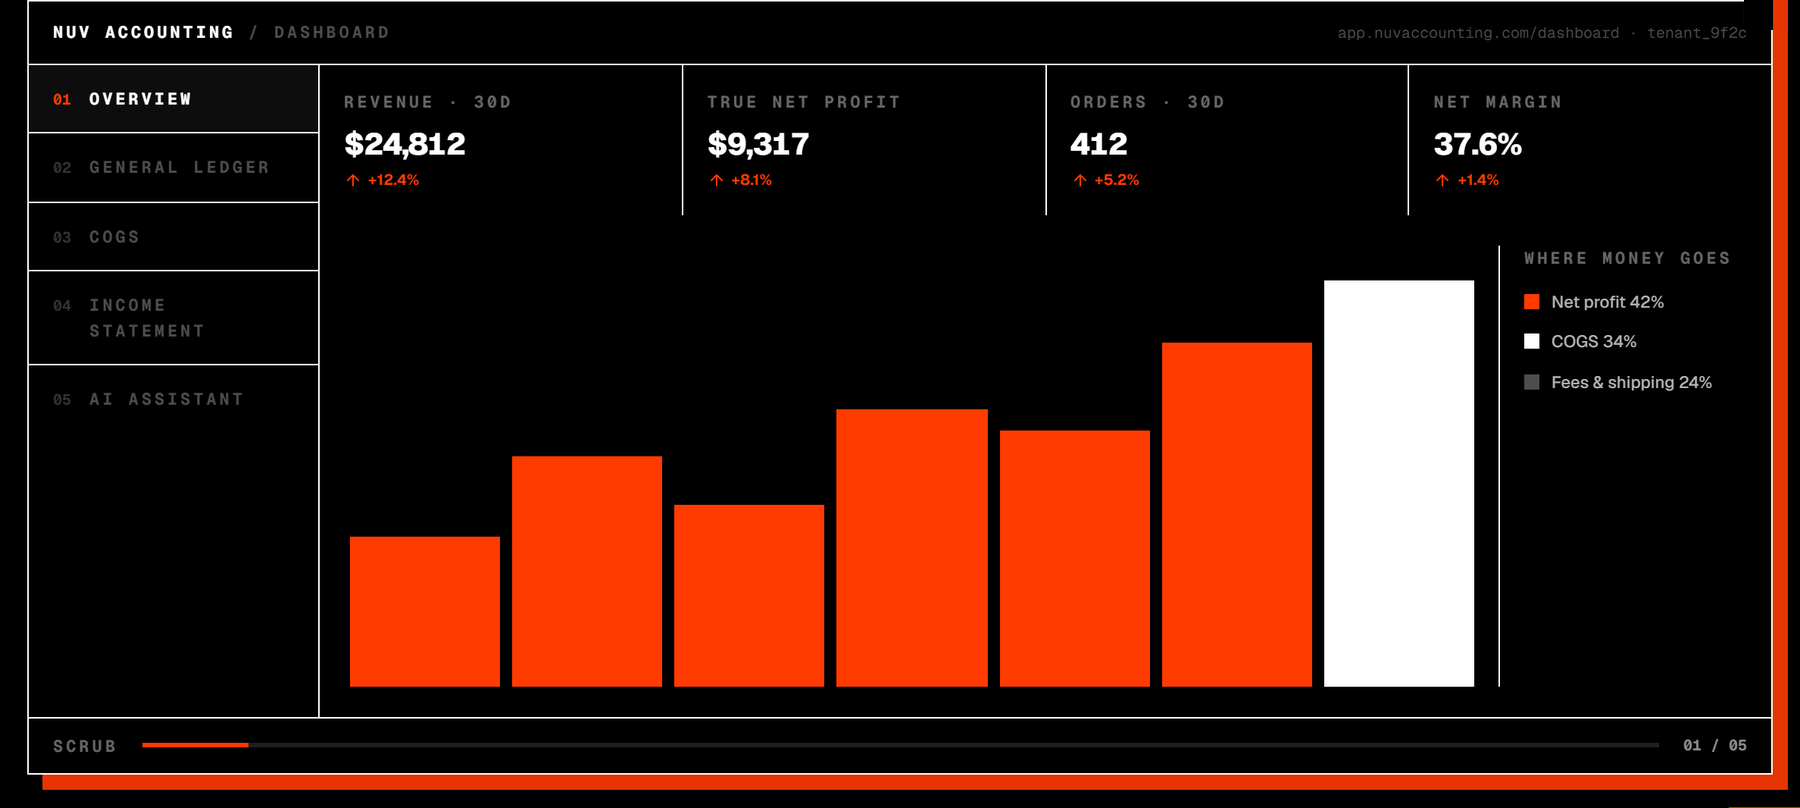
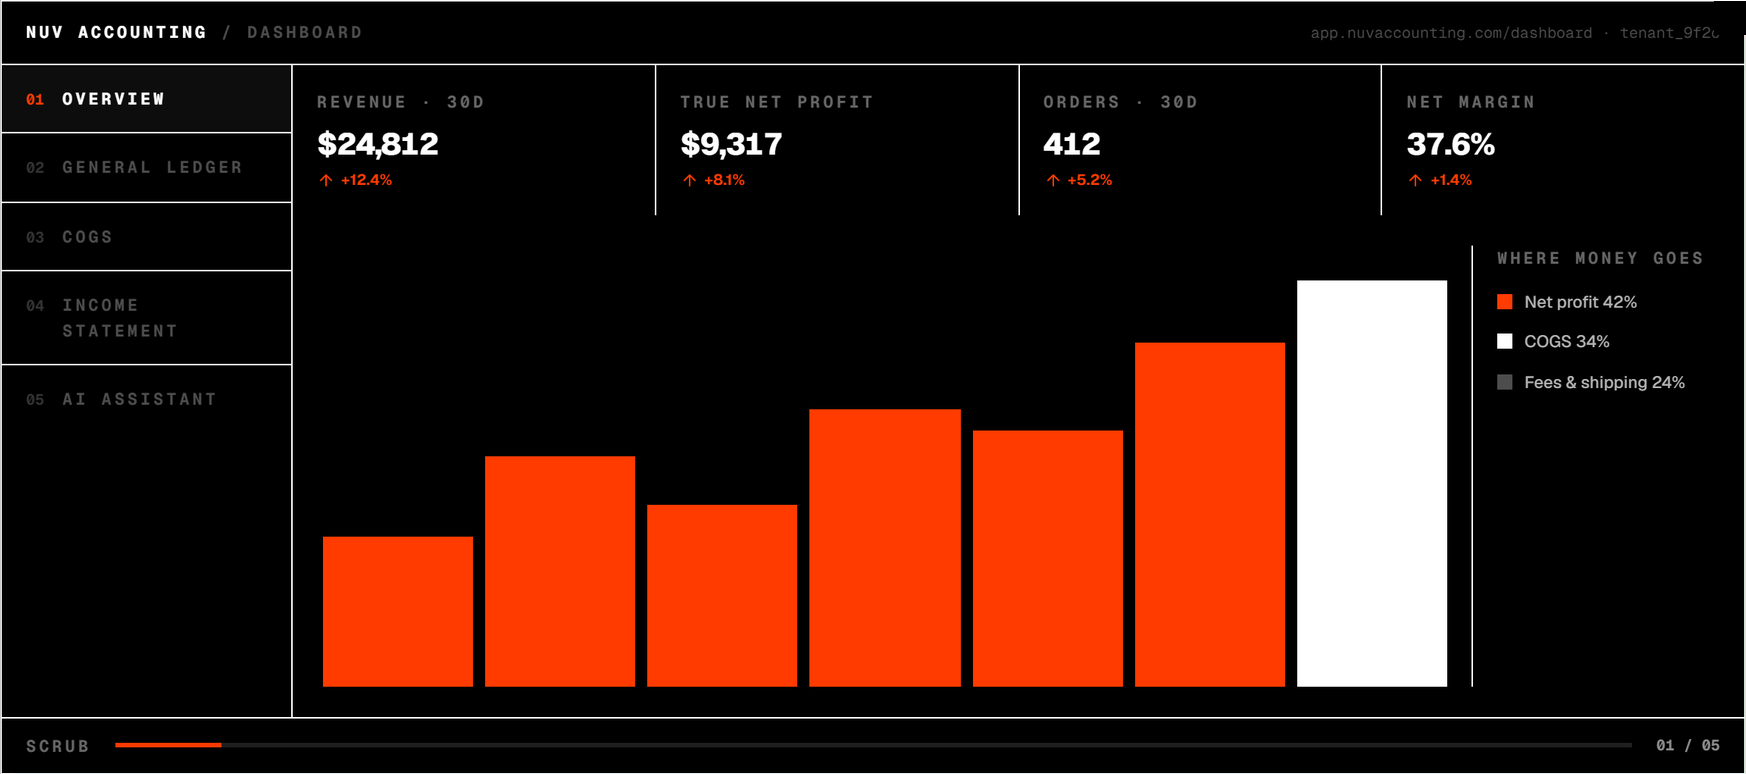
Make the NUV Accounting preview fill its card edge to edge
The screenshot carried a stray orange strip, a black band and a wide 7-column
frame that left cream gaps under it. Crop the asset to the dashboard's own
frame, let the preview span the card's full width and match the image aspect
exactly, and move the copy into a two-column block beneath it so image, text
and card border share one alignment.

🤖 Generated with Codebuff

Changed region(s): [[0.0, 0.0, 1.0, 1.0], [0.5876, 0.124, 0.6804, 0.2481]]

diff --git a/css/sections.css b/css/sections.css
@@ -244,11 +244,10 @@ img.avatar {
 }
 
 .featured-card {
+  --feat-pad: clamp(1rem, 1.6vw, 1.6rem);
   display: grid;
   grid-template-columns: repeat(12, minmax(0, 1fr));
-  column-gap: var(--gutter);
-  row-gap: 1.6rem;
-  padding: clamp(0.9rem, 1.4vw, 1.4rem);
+  padding: var(--feat-pad);
   border: 1px solid var(--line);
   background: var(--cream);
   transition: border-color 0.4s var(--ease), background 0.4s var(--ease);
@@ -258,32 +257,57 @@ img.avatar {
   border-color: var(--ink);
 }
 
+/* Preview runs edge to edge inside the card, sized to the screenshot's own
+   frame so the image fills it exactly — no letterboxing, no cream margins. */
 .featured-media {
-  grid-column: 1 / span 7;
+  grid-column: 1 / -1;
+  margin: calc(var(--feat-pad) * -1) calc(var(--feat-pad) * -1) 0;
   position: relative;
-  aspect-ratio: 2.2 / 1;
+  aspect-ratio: 1746 / 774;
   overflow: hidden;
   background: #050505;
-  border: 1px solid var(--line-soft);
 }
 
 .featured-media img {
+  display: block;
   width: 100%;
   height: 100%;
   object-fit: cover;
-  object-position: top center;
+  object-position: center;
   transition: transform 1.3s var(--ease);
 }
 
 .featured-card:hover .featured-media img {
-  transform: scale(1.035);
+  transform: scale(1.02);
 }
 
 .featured-body {
-  grid-column: 8 / -1;
+  grid-column: 1 / -1;
+  display: grid;
+  grid-template-columns: minmax(0, 1.15fr) minmax(0, 0.85fr);
+  column-gap: clamp(2rem, 6vw, 6rem);
+  padding: clamp(1.5rem, 2.6vw, 2.2rem) clamp(0.1rem, 0.8vw, 0.7rem) clamp(0.2rem, 0.6vw, 0.5rem);
+}
+
+.featured-copy {
   display: flex;
   flex-direction: column;
-  padding: clamp(0.3rem, 0.9vw, 0.9rem) clamp(0.2rem, 1vw, 1.2rem) clamp(0.3rem, 0.8vw, 0.7rem) 0;
+  min-width: 0;
+}
+
+.featured-meta {
+  display: flex;
+  flex-direction: column;
+  justify-content: space-between;
+  gap: clamp(1.6rem, 3vw, 2.6rem);
+  padding-top: 0.35rem;
+  min-width: 0;
+}
+
+.featured-action {
+  display: flex;
+  flex-direction: column;
+  align-items: flex-start;
 }
 
 .featured-kicker {
@@ -328,10 +352,10 @@ img.avatar {
 
 .featured-points {
   display: flex;
-  flex-wrap: wrap;
+  flex-direction: column;
+  align-items: flex-start;
   gap: 0.45rem;
-  margin-top: auto;
-  padding-top: clamp(1.4rem, 2.4vw, 2rem);
+  margin: 0;
 }
 
 .featured-points li {
@@ -345,7 +369,6 @@ img.avatar {
   align-items: center;
   gap: 10px;
   width: fit-content;
-  margin-top: 1.2rem;
   padding-bottom: 4px;
   border-bottom: 1px solid var(--ink);
   font-size: clamp(13px, 0.95vw, 14px);
@@ -367,11 +390,9 @@ img.avatar {
 }
 
 @media (max-width: 860px) {
-  .featured-media,
   .featured-body {
-    grid-column: 1 / -1;
-  }
-  .featured-body {
+    grid-template-columns: minmax(0, 1fr);
+    row-gap: 1.8rem;
     padding-right: 0;
   }
 }

diff --git a/index.html b/index.html
@@ -260,21 +260,27 @@
             <img src="assets/works/nuv-accounting.png" alt="NUV Accounting live dashboard showing revenue, true net profit, orders and net margin for an e-commerce store" loading="lazy">
           </div>
           <div class="featured-body">
-            <p class="featured-kicker mono">Featured work · Flagship product — 2026</p>
-            <h3>NUV Accounting</h3>
-            <p class="featured-sub">Automated AI accounting for e-commerce</p>
-            <p class="featured-desc">
-              Our own flagship platform. It plugs into your storefront, payment processor and marketplaces,
-              then categorises every sale, fee and payout automatically — closing the books in minutes
-              instead of weeks, with audit-ready reports finance teams can trust.
-            </p>
-            <ul class="featured-points">
-              <li class="mono">Storefront &amp; payout reconciliation</li>
-              <li class="mono">Real-time e-commerce ledger</li>
-              <li class="mono">Audit-ready reporting</li>
-            </ul>
-            <span class="featured-cta">Visit the live product <span aria-hidden="true">↗</span></span>
-            <p class="featured-url mono">accounting-nu-teal.vercel.app</p>
+            <div class="featured-copy">
+              <p class="featured-kicker mono">Featured work · Flagship product — 2026</p>
+              <h3>NUV Accounting</h3>
+              <p class="featured-sub">Automated AI accounting for e-commerce</p>
+              <p class="featured-desc">
+                Our own flagship platform. It plugs into your storefront, payment processor and marketplaces,
+                then categorises every sale, fee and payout automatically — closing the books in minutes
+                instead of weeks, with audit-ready reports finance teams can trust.
+              </p>
+            </div>
+            <div class="featured-meta">
+              <ul class="featured-points">
+                <li class="mono">Storefront &amp; payout reconciliation</li>
+                <li class="mono">Real-time e-commerce ledger</li>
+                <li class="mono">Audit-ready reporting</li>
+              </ul>
+              <div class="featured-action">
+                <span class="featured-cta">Visit the live product <span aria-hidden="true">↗</span></span>
+                <p class="featured-url mono">accounting-nu-teal.vercel.app</p>
+              </div>
+            </div>
           </div>
         </a>
       </div>
